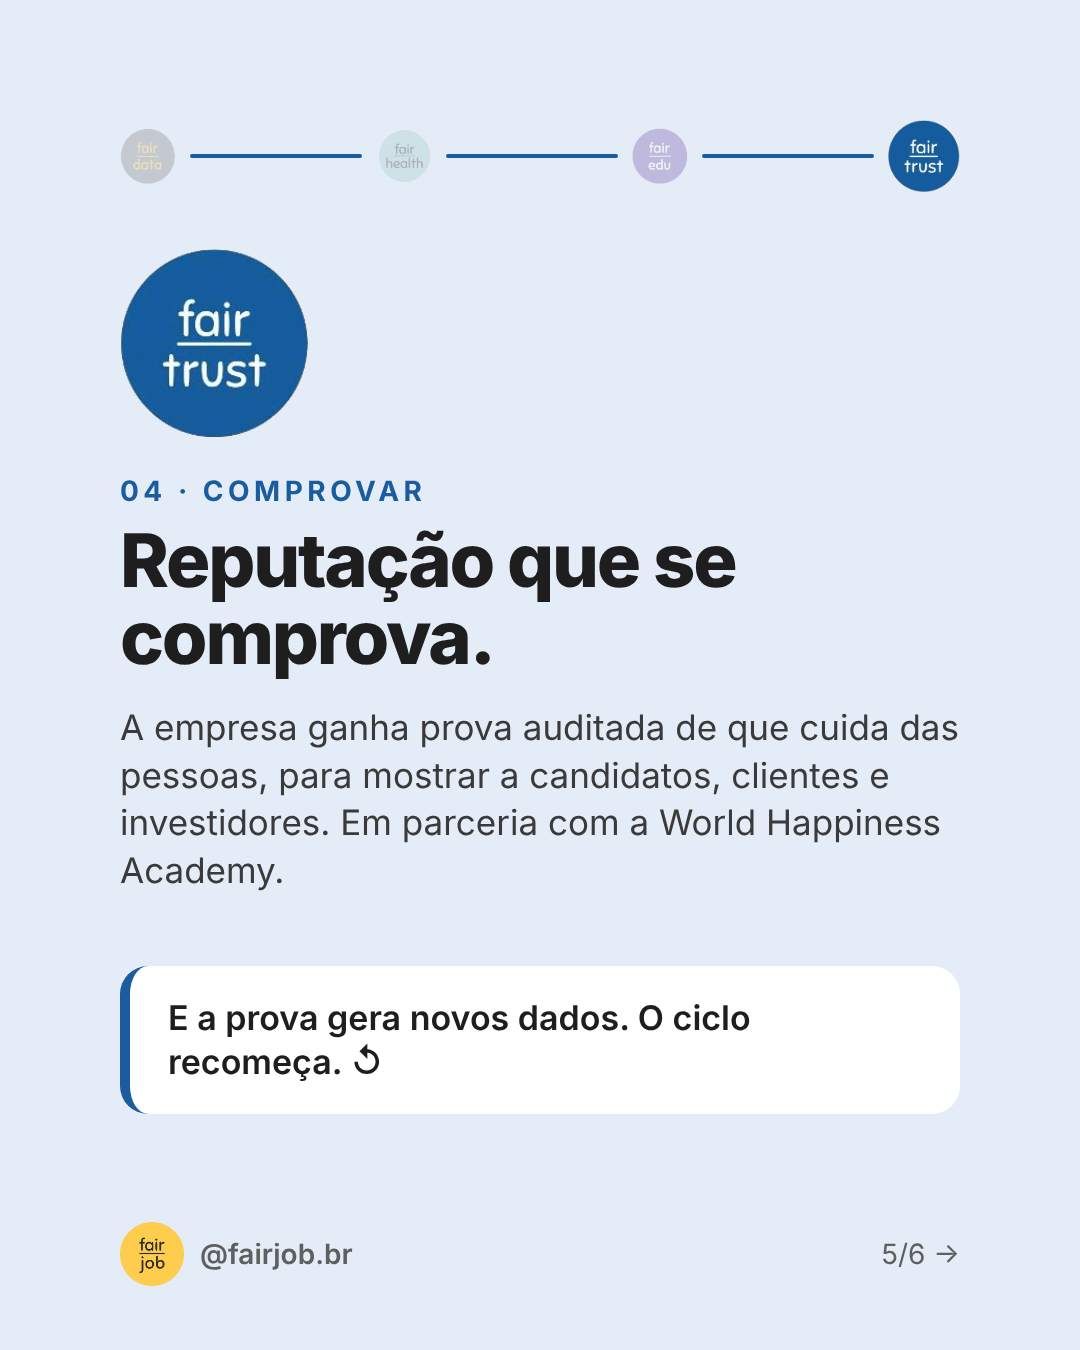
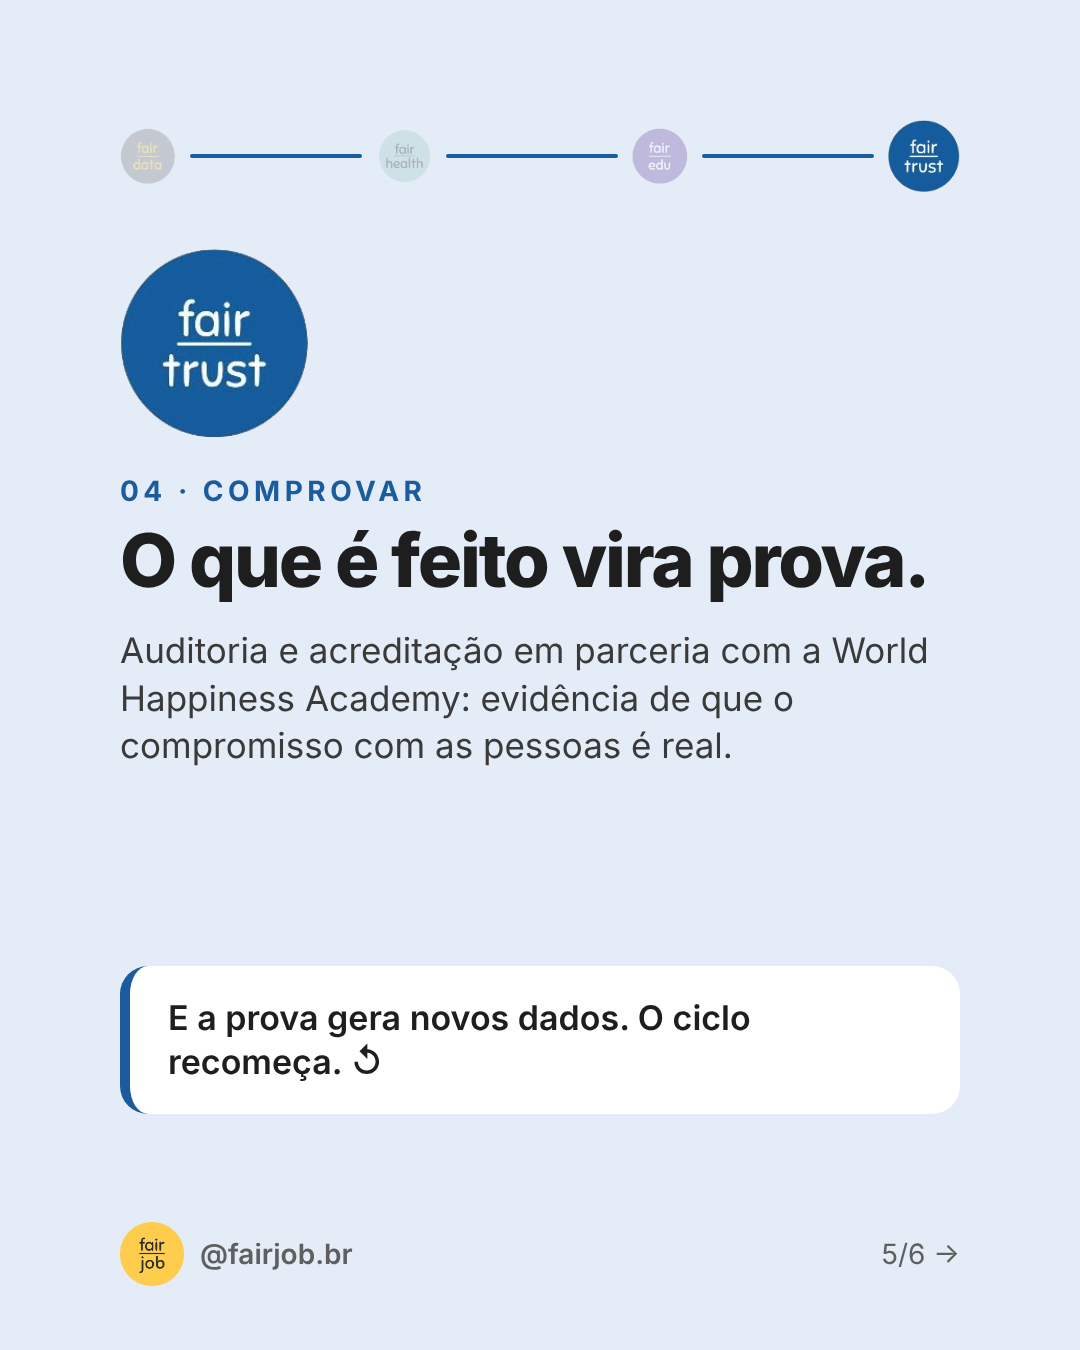
Carousel 01: restore fairtrust copy (O que é feito vira prova)
Claude-Session: https://claude.ai/code/session_01BNRZX6VSYKwV1xCbt1XY1x

Changed region(s): [[0.0917, 0.3733, 0.8861, 0.6533]]

diff --git a/posts/01-ecossistema/carrossel.html b/posts/01-ecossistema/carrossel.html
@@ -163,8 +163,8 @@
   </div>
   <img class="logo" src="../assets/logos/fairtrust.png" alt="fairtrust">
   <div class="etapa">04 · Comprovar</div>
-  <h2>Reputação que se comprova.</h2>
-  <p class="texto">A empresa ganha prova auditada de que cuida das pessoas, para mostrar a candidatos, clientes e investidores. Em parceria com a World Happiness Academy.</p>
+  <h2>O que é feito vira prova.</h2>
+  <p class="texto">Auditoria e acreditação em parceria com a World Happiness Academy: evidência de que o compromisso com as pessoas é real.</p>
   <div class="ponte">E a prova gera novos dados. O ciclo recomeça. ↺</div>
   <div class="rodape"><div class="marca"><img src="../assets/logos/fairjob.png" alt="">@fairjob.br</div><div>5/6 →</div></div>
 </section>

diff --git a/.claude/instagram/voice.md b/.claude/instagram/voice.md
@@ -13,8 +13,8 @@ e workshops; Escritório do Cuidado; auditoria e acreditação). A entrega mais 
   ação; o efeito é a empresa saber o que fazer primeiro.
 - **FairHealth:** o cuidado com o colaborador.
 - **FairEdu:** lideranças mais capazes e efetivas.
-- **FairTrust:** reputação comprovada (prova auditada de que a empresa cuida
-  das pessoas). [A CONFIRMAR]
+- **FairTrust:** a prova. Auditoria e acreditação viram evidência de que o
+  compromisso com as pessoas é real ("O que é feito vira prova.").
 
 **Regra de vocabulário:** chamar a FairJob de **ecossistema**. "Holding" fica
 na gaveta. Use só quando o assunto for estrutura societária, e mesmo assim
